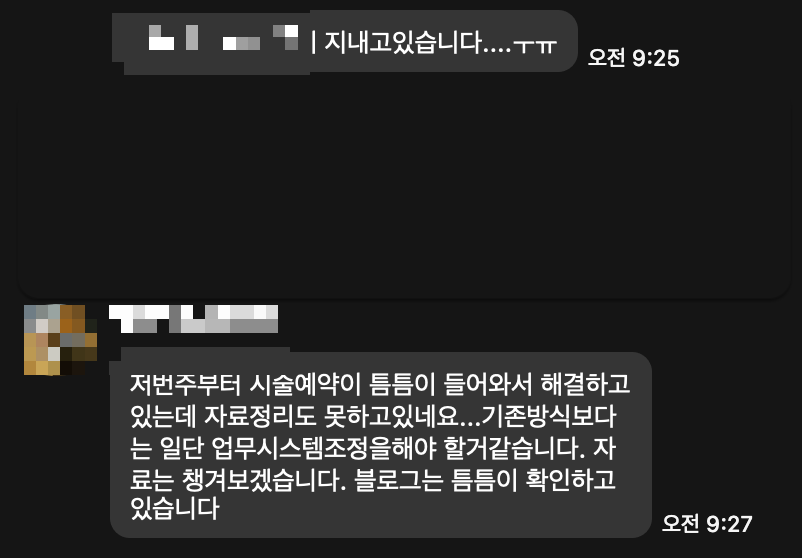
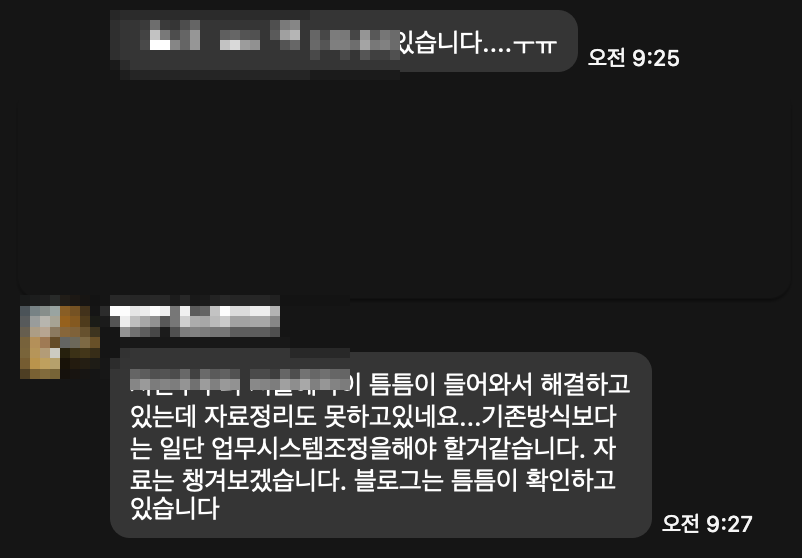
✨ feat: Results 섹션 수치 중복 제거 및 카카오 증거 인라인 배치
- 중복 지표('약 50% 월매출 추가 상승') 제거 → 3개 수치로 정리
- 카카오톡 스크린샷을 하단 standalone에서 수치 그리드 내 4번째 셀로 이동
- 카카오 이미지 모자이크 강화 (프로필/이름 영역 재처리)

diff --git a/src/components/Results.tsx b/src/components/Results.tsx
@@ -7,7 +7,6 @@ import { motion, useInView } from "framer-motion";
 
 const achievements = [
   { num: 50, prefix: "+", suffix: "%", label: "3개월 매출 성장" },
-  { num: 50, prefix: "약 ", suffix: "%", label: "월매출 추가 상승" },
   { num: 40, prefix: "+", suffix: "%", label: "소개·입소문 내원" },
   { num: 60, prefix: "+", suffix: "%", label: "블로그 기반 내원" },
 ];
@@ -110,6 +109,15 @@ export default function Results() {
                   <p className="text-slate-500 text-xs">{a.label}</p>
                 </div>
               ))}
+              <div className="bg-slate-900 overflow-hidden">
+                <Image
+                  src="/kakao-proof.png"
+                  alt="원장님 카카오톡 대화"
+                  width={802}
+                  height={558}
+                  className="w-full h-full object-cover"
+                />
+              </div>
             </div>
 
             <motion.div
@@ -130,24 +138,6 @@ export default function Results() {
 
         </div>
 
-        {/* 구분선 */}
-        <div className="w-full h-px bg-slate-800 mb-16" />
-
-        {/* 카카오톡 증거 — 가운데 정렬 */}
-        <FadeIn>
-          <p className="text-slate-500 text-xs font-semibold tracking-wider uppercase mb-4">
-            원장님에게 온 카카오톡
-          </p>
-          <div className="max-w-lg rounded-2xl overflow-hidden shadow-2xl shadow-black/50">
-            <Image
-              src="/kakao-proof.png"
-              alt="실제 클라이언트 원장님 카카오톡 대화"
-              width={802}
-              height={558}
-              className="w-full"
-            />
-          </div>
-        </FadeIn>
 
       </div>
     </section>
